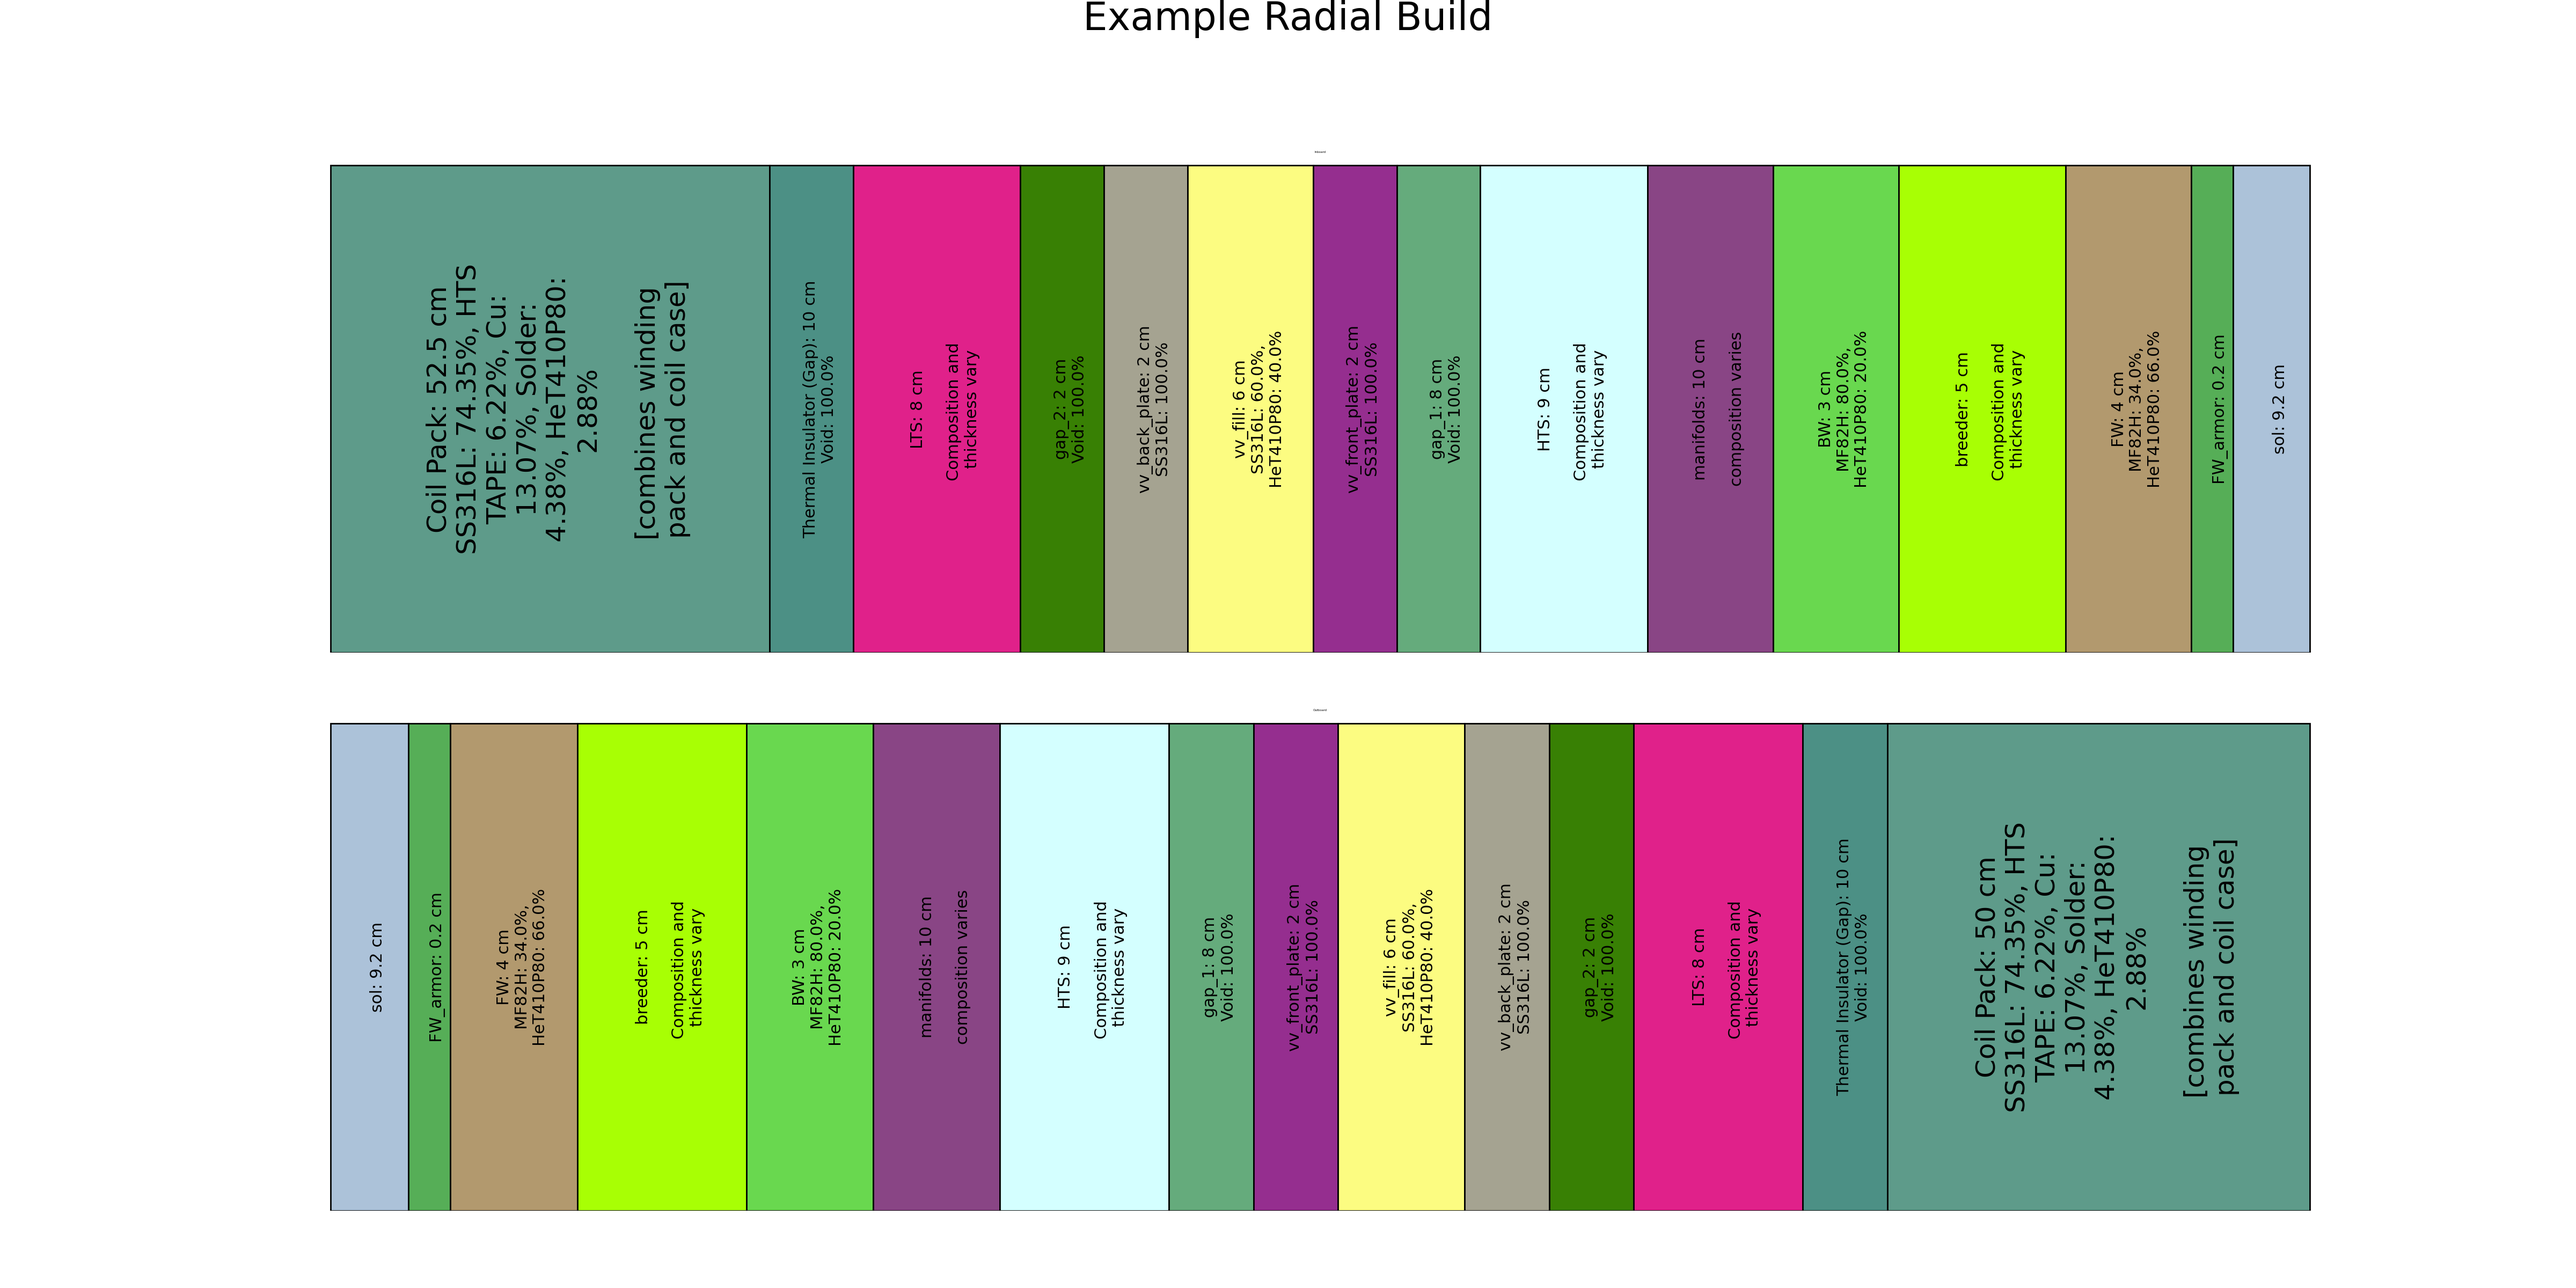
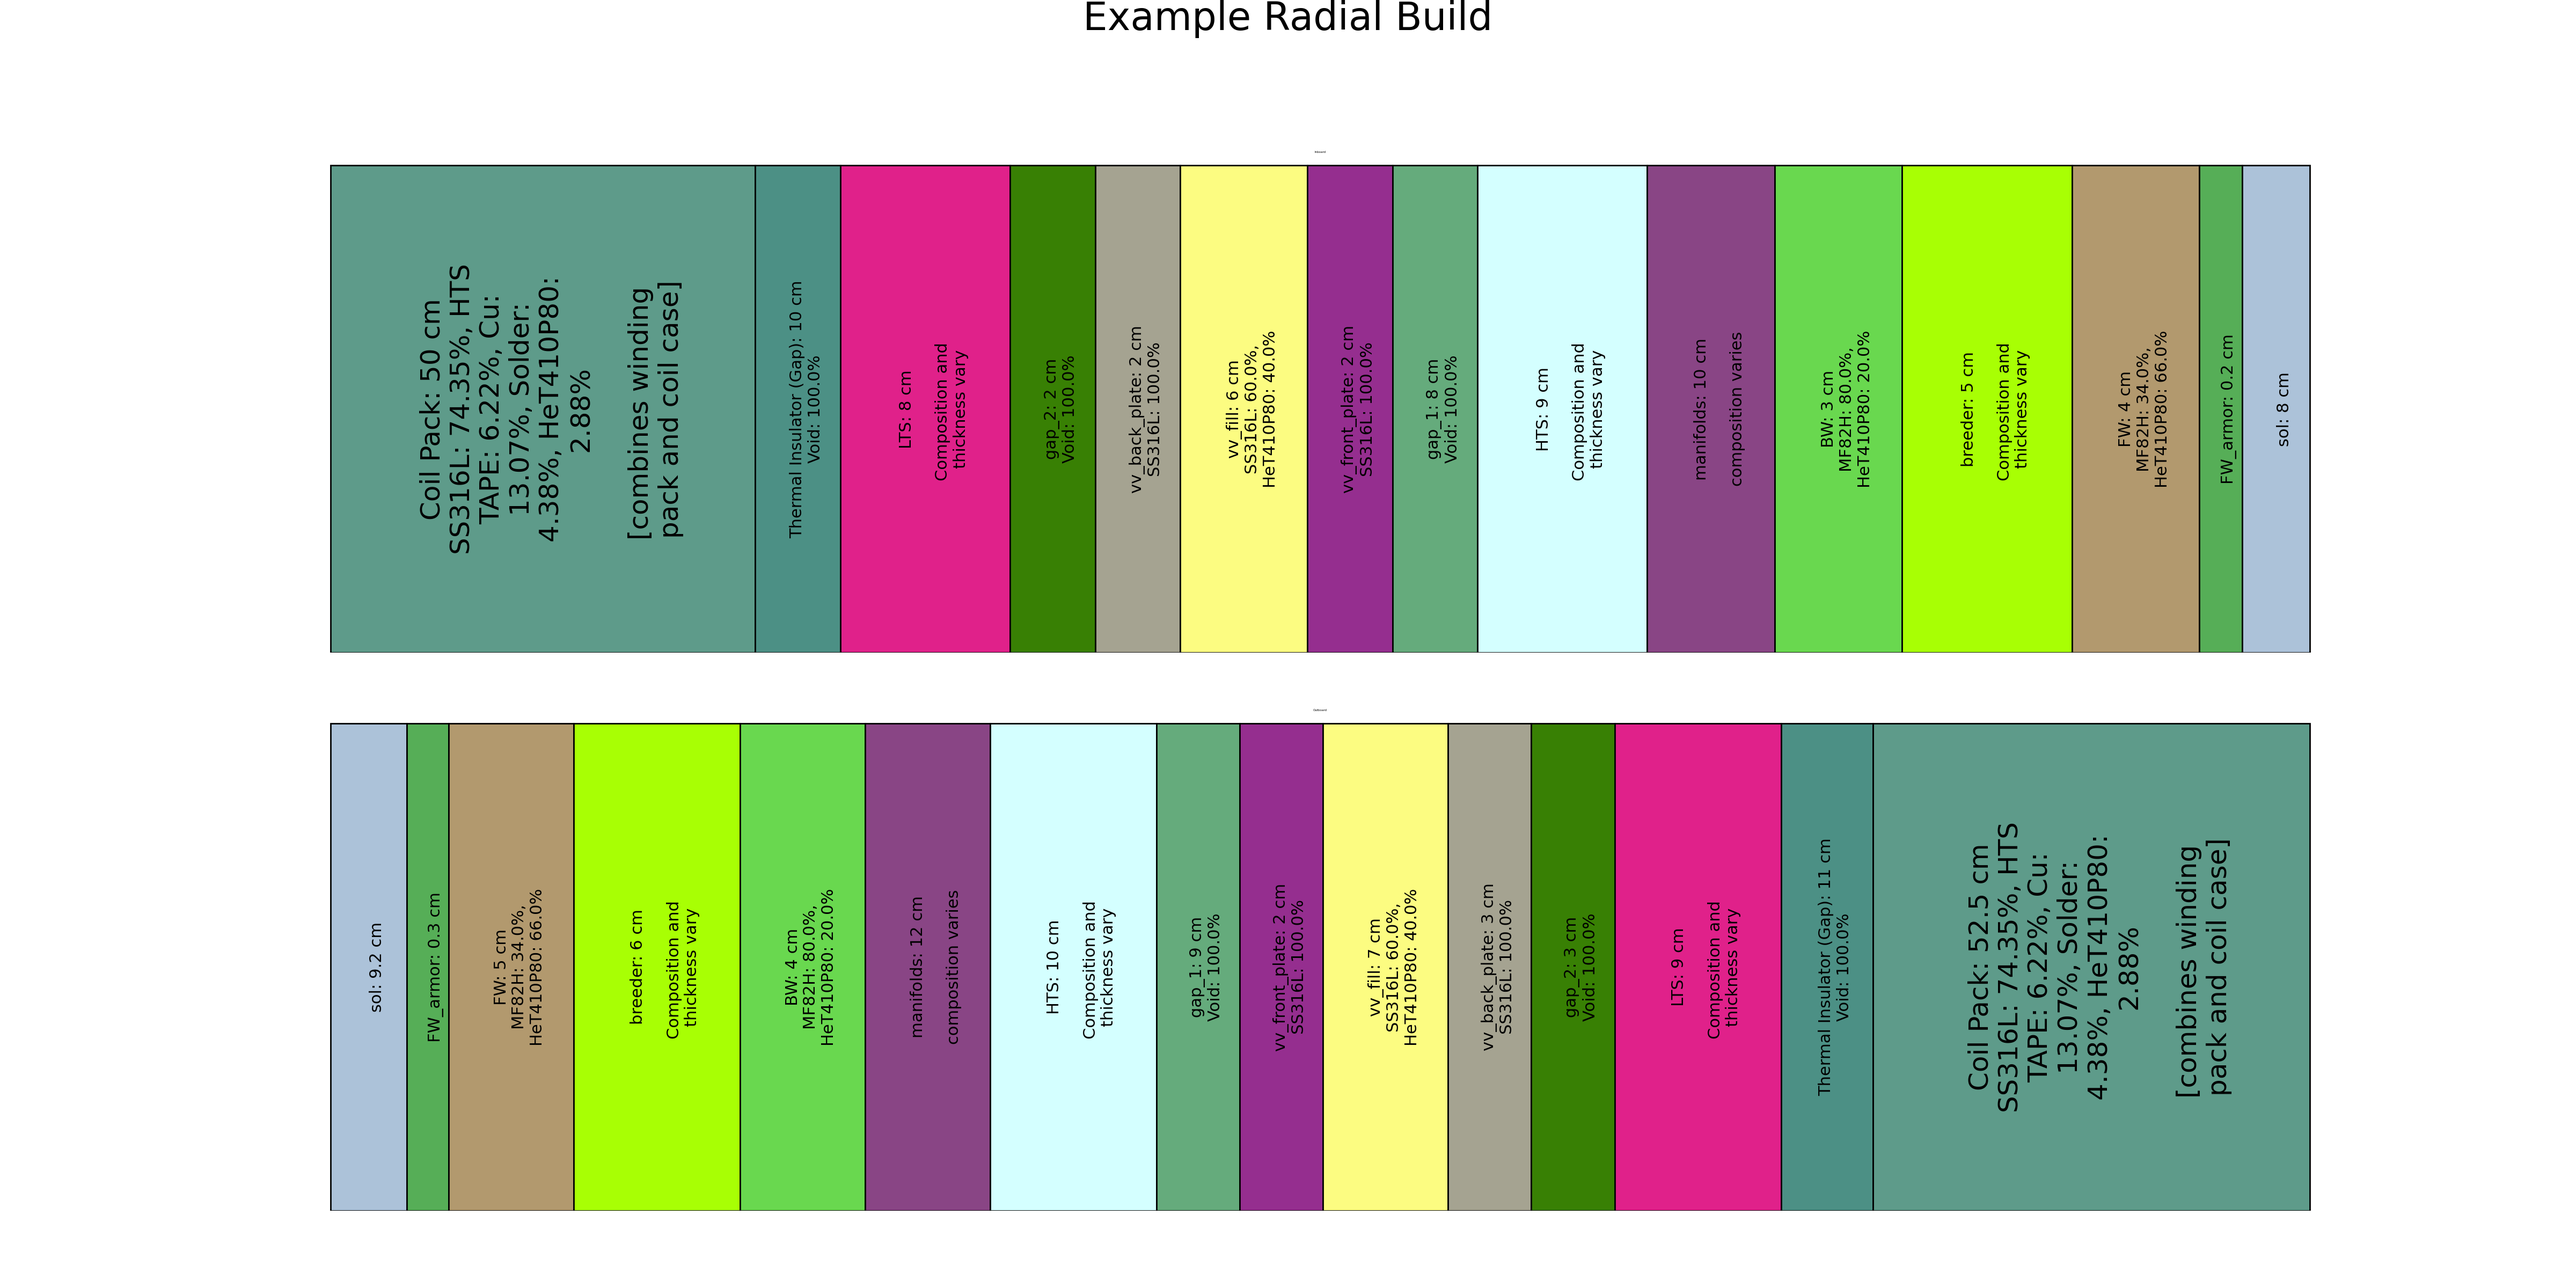
plot_side_functionality

diff --git a/radial_build_tools.py b/radial_build_tools.py
@@ -228,7 +228,7 @@ class RadialBuildPlot(object):
         return text, visual_thickness
 
 
-    def plot_side(self, ax, side, reverse=False):
+    def plot_side(self, ax, side, reverse=False,plot_title=True):
         """
         Plot either the inboard or outboard radial build.
         """
@@ -292,7 +292,7 @@ class RadialBuildPlot(object):
             total_thickness += visual_thickness
         ax.set_xlim(-1, total_thickness + 1)
         ax.set_axis_off()
-        if side is not None:
+        if plot_title:
             ax.set_title(side.capitalize(), fontsize=2, pad=1)
 
     def ib_ob_are_identical(self):
@@ -314,6 +314,7 @@ class RadialBuildPlot(object):
                 ax,
                 side="inboard",
                 reverse=True,
+                plot_title=False,
             )
         else:
             fig, axes = plt.subplots(
